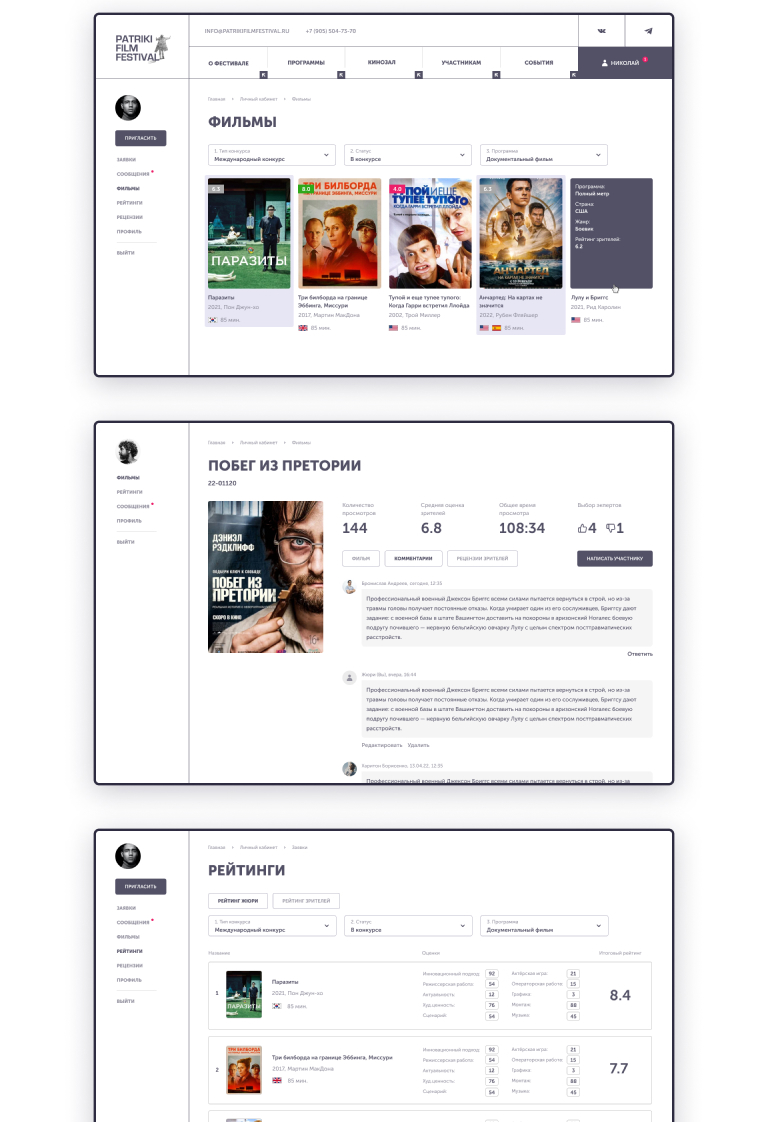
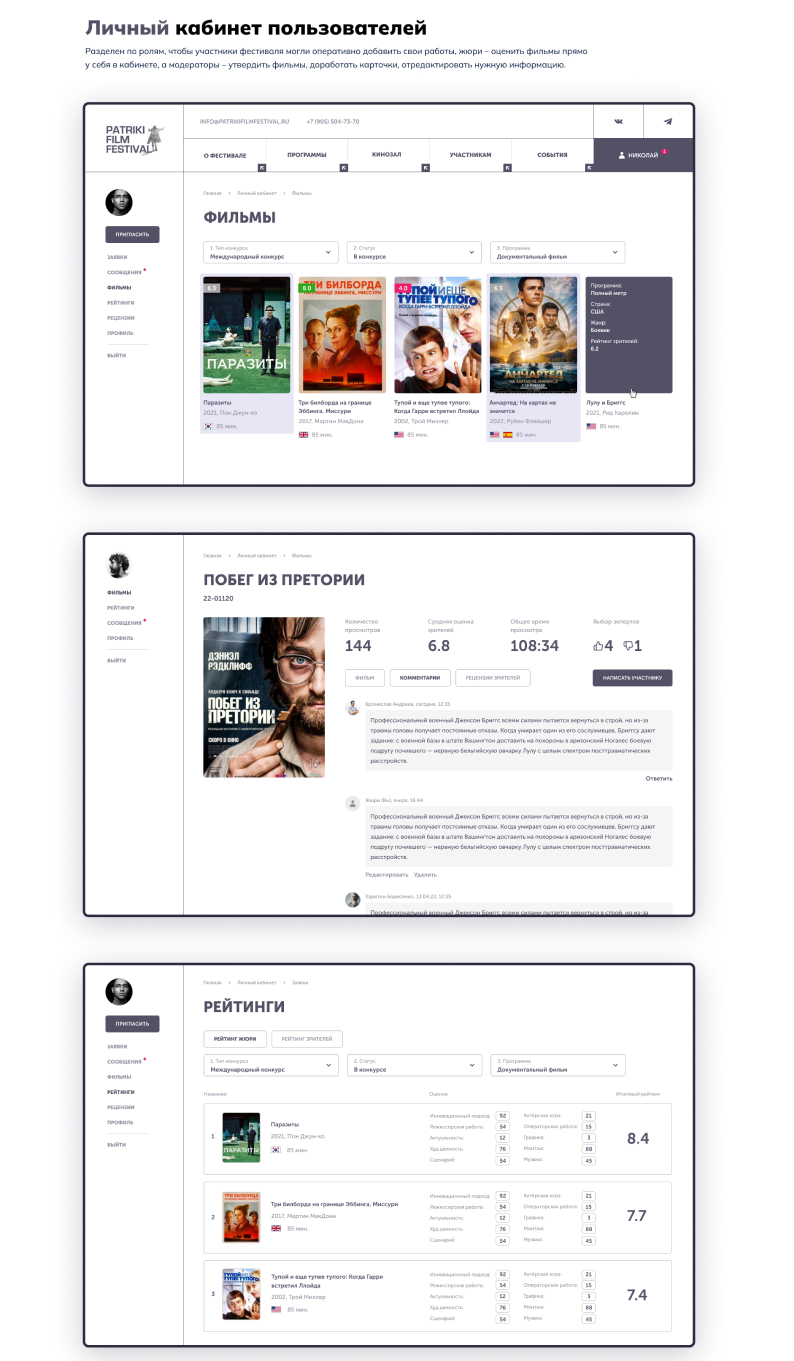
changed the size of images

diff --git a/dist/project-film.html b/dist/project-film.html
@@ -141,8 +141,8 @@
         </div>
         <div class="projects-patrik-film__img-box wow experience">
           <picture>
-            <source srcset="static/img/project-patrik/project_patrik_11200.jpg" media="(min-width: 992px)">
-            <source srcset="static/img/project-patrik/project_patrik_1768.jpg" media="(min-width: 680px)"><img class="projects-patrik-film__img-online-festival lazyload" loading="lazy" data-src="static/img/project-patrik/project_patrik_1.jpg" src="static/img/project-patrik/project_patrik_1.jpg">
+            <source srcset="static/img/project-patrik/project_patrik_11200.jpg" media="(min-width: 576px)">
+            <source srcset="static/img/project-patrik/project_patrik_1768.jpg" media="(min-width: 480px)"><img class="projects-patrik-film__img-online-festival lazyload" loading="lazy" data-src="static/img/project-patrik/project_patrik_1.jpg" src="static/img/project-patrik/project_patrik_1.jpg">
           </picture>
         </div>
         <div class="container">
@@ -162,32 +162,32 @@
         </div>
         <div class="projects-patrik-film__img-box-new wow experience">
           <picture>
-            <source srcset="static/img/project-patrik/project_patrik_21200.jpg" media="(min-width: 992px)">
-            <source srcset="static/img/project-patrik/project_patrik_2768.jpg" media="(min-width: 680px)"><img class="projects-patrik-film__img-online-festival lazyload" loading="lazy" data-src="static/img/project-patrik/project_patrik_2.jpg" src="static/img/project-patrik/project_patrik_2.jpg">
+            <source srcset="static/img/project-patrik/project_patrik_21200.jpg" media="(min-width: 576px)">
+            <source srcset="static/img/project-patrik/project_patrik_2768.jpg" media="(min-width: 480px)"><img class="projects-patrik-film__img-online-festival lazyload" loading="lazy" data-src="static/img/project-patrik/project_patrik_2.jpg" src="static/img/project-patrik/project_patrik_2.jpg">
           </picture>
         </div>
         <div class="projects-patrik-film__img-box-new wow experience">
           <picture>
-            <source srcset="static/img/project-patrik/project_patrik_31200.jpg" media="(min-width: 992px)">
-            <source srcset="static/img/project-patrik/project_patrik_3768.jpg" media="(min-width: 680px)"><img class="projects-patrik-film__img-online-festival lazyload" loading="lazy" data-src="static/img/project-patrik/project_patrik_3.jpg" src="static/img/project-patrik/project_patrik_3.jpg">
+            <source srcset="static/img/project-patrik/project_patrik_31200.jpg" media="(min-width: 576px)">
+            <source srcset="static/img/project-patrik/project_patrik_3768.jpg" media="(min-width: 480px)"><img class="projects-patrik-film__img-online-festival lazyload" loading="lazy" data-src="static/img/project-patrik/project_patrik_3.jpg" src="static/img/project-patrik/project_patrik_3.jpg">
           </picture>
         </div>
         <div class="projects-patrik-film__img-box-new wow experience">
           <picture>
-            <source srcset="static/img/project-patrik/project_patrik_41200.jpg" media="(min-width: 992px)">
-            <source srcset="static/img/project-patrik/project_patrik_4768.jpg" media="(min-width: 680px)"><img class="projects-patrik-film__img-online-festival lazyload" loading="lazy" data-src="static/img/project-patrik/project_patrik_4.jpg" src="static/img/project-patrik/project_patrik_4.jpg">
+            <source srcset="static/img/project-patrik/project_patrik_41200.jpg" media="(min-width: 576px)">
+            <source srcset="static/img/project-patrik/project_patrik_4768.jpg" media="(min-width: 480px)"><img class="projects-patrik-film__img-online-festival lazyload" loading="lazy" data-src="static/img/project-patrik/project_patrik_4.jpg" src="static/img/project-patrik/project_patrik_4.jpg">
           </picture>
         </div>
         <div class="projects-patrik-film__img-box-new wow experience">
           <picture>
-            <source srcset="static/img/project-patrik/project_patrik_51200.jpg" media="(min-width: 992px)">
-            <source srcset="static/img/project-patrik/project_patrik_5768.jpg" media="(min-width: 680px)"><img class="projects-patrik-film__img-online-festival lazyload" loading="lazy" data-src="static/img/project-patrik/project_patrik_5.jpg" src="static/img/project-patrik/project_patrik_5.jpg">
+            <source srcset="static/img/project-patrik/project_patrik_51200.jpg" media="(min-width: 576px)">
+            <source srcset="static/img/project-patrik/project_patrik_5768.jpg" media="(min-width: 480px)"><img class="projects-patrik-film__img-online-festival lazyload" loading="lazy" data-src="static/img/project-patrik/project_patrik_5.jpg" src="static/img/project-patrik/project_patrik_5.jpg">
           </picture>
         </div>
         <div class="projects-patrik-film__img-box-new wow experience">
           <picture>
-            <source srcset="static/img/project-patrik/project_patrik_61200.jpg" media="(min-width: 992px)">
-            <source srcset="static/img/project-patrik/project_patrik_6768.jpg" media="(min-width: 680px)"><img class="projects-patrik-film__img-online-festival lazyload" loading="lazy" data-src="static/img/project-patrik/project_patrik_6.jpg" src="static/img/project-patrik/project_patrik_6.jpg">
+            <source srcset="static/img/project-patrik/project_patrik_61200.jpg" media="(min-width: 576px)">
+            <source srcset="static/img/project-patrik/project_patrik_6768.jpg" media="(min-width: 480px)"><img class="projects-patrik-film__img-online-festival lazyload" loading="lazy" data-src="static/img/project-patrik/project_patrik_6.jpg" src="static/img/project-patrik/project_patrik_6.jpg">
           </picture>
         </div>
       </section>
